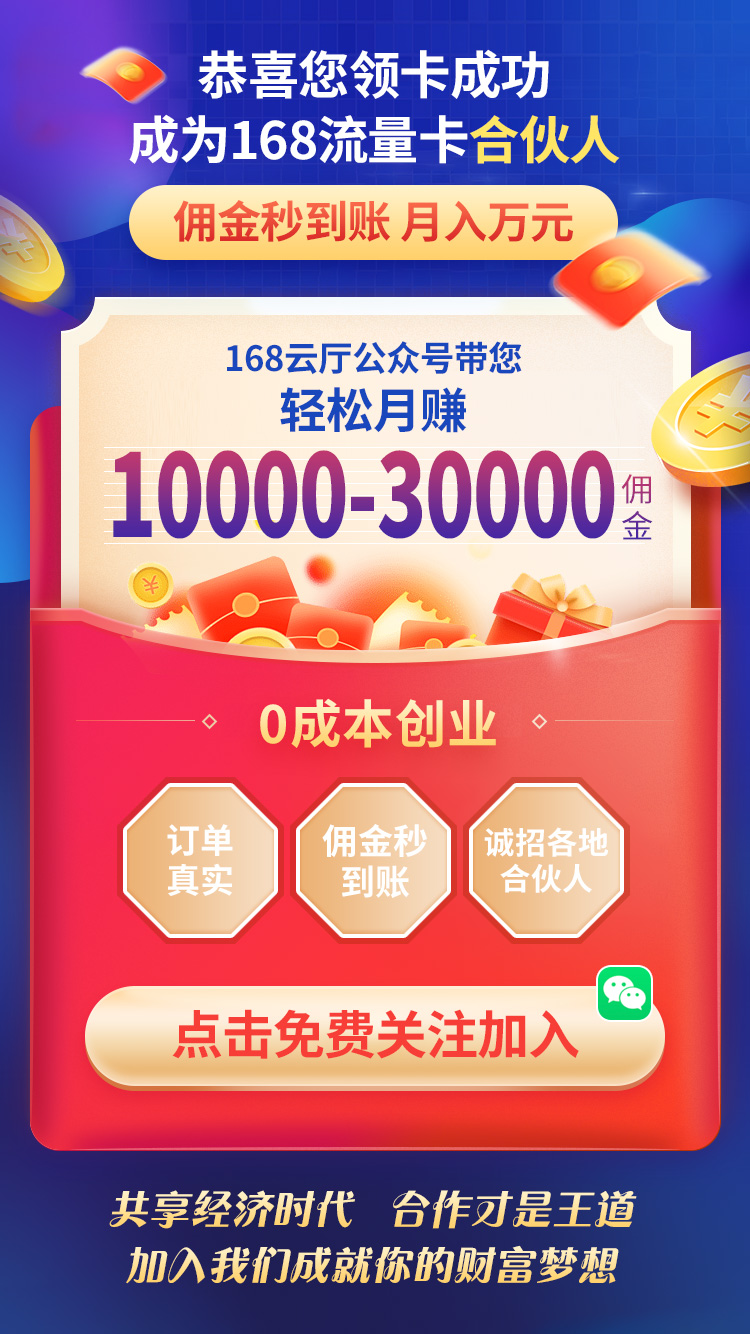
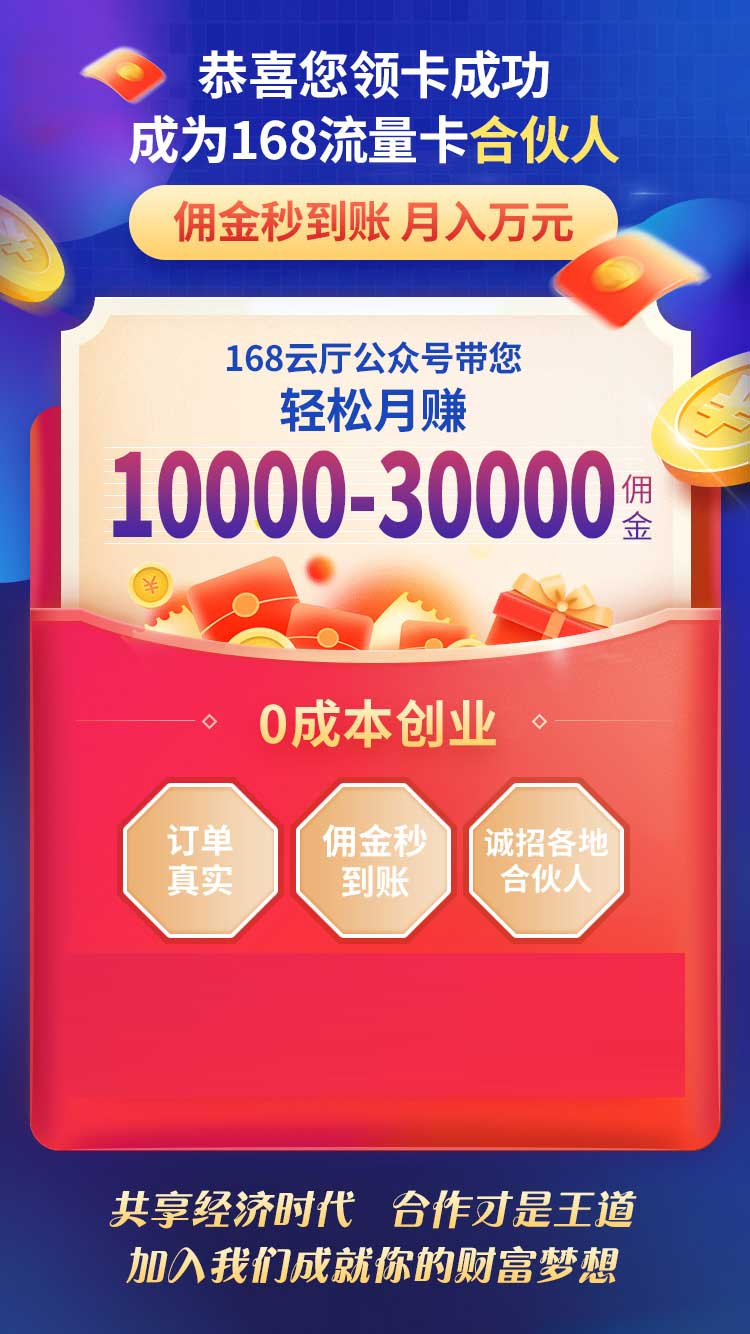
dfd

diff --git a/src/views/20230811/newsuccess_xingif.vue b/src/views/20230811/newsuccess_xingif.vue
@@ -3,7 +3,7 @@
     <div class="pic-box">
       <img src="../../assets/images/20230811/WechatIMG8482.jpg" alt="" />
       <div class="midbtn" @click="goAdUrl">
-        <img src="../../assets/images/20230811/succ/bbttn.png" alt="" />
+        <img src="../../assets/images/20230811/btnns2.png" alt="" />
       </div>
     </div>
 
@@ -114,11 +114,11 @@ export default {
 
       position: absolute;
       z-index: 10;
-      top: 14.4rem;
+      top: 13rem;
       left: 0;
       right: 0;
       img {
-        width: 45%;
+        width: 65%;
       }
     }
   }
@@ -140,7 +140,7 @@ export default {
     }
     // margin-bottom: 1.2rem;
     padding-bottom: 0.4rem;
-    background-color: #f88354;
+    background-color: #1a1a36;
   }
 }
 </style>

diff --git a/src/views/20230811/fillFormNoSel.vue b/src/views/20230811/fillFormNoSel.vue
@@ -392,10 +392,10 @@ export default {
               this.$toast({
                 message: '订单提交成功',
                 onClose: () => {
-                  this.$router.push({ name: 'success' })
+                  this.$router.push({ name: 'success_xingif' })
                 }
               })
-              this.$router.push({ name: 'success' })
+              this.$router.push({ name: 'success_xingif' })
             } else {
               this.$toast({
                 message: res.message
